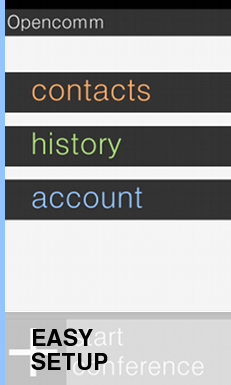
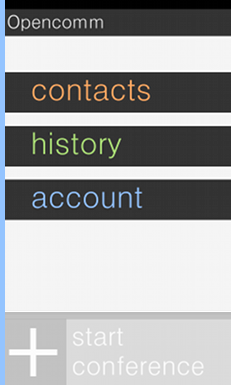
Changes to footer & images
Added/edited images

Changed region(s): [[0.1212, 0.8416, 0.4848, 0.9662]]

diff --git a/js/jquery.kwicks-1.5.1.pack.js b/js/jquery.kwicks-1.5.1.pack.js
@@ -7,5 +7,203 @@
 		http://www.opensource.org/licenses/mit-license.php
 
 	Any and all use of this script must be accompanied by this copyright/license notice in its present form.
-*/
-(function($){$.fn.kwicks=function(n){var p={isVertical:false,sticky:false,defaultKwick:0,event:'mouseover',spacing:0,duration:500};var o=$.extend(p,n);var q=(o.isVertical?'height':'width');var r=(o.isVertical?'top':'left');return this.each(function(){container=$(this);var k=container.children('li');var l=k.eq(0).css(q).replace(/px/,'');if(!o.max){o.max=(l*k.size())-(o.min*(k.size()-1))}else{o.min=((l*k.size())-o.max)/(k.size()-1)}if(o.isVertical){container.css({width:k.eq(0).css('width'),height:(l*k.size())+(o.spacing*(k.size()-1))+'px'})}else{container.css({width:(l*k.size())+(o.spacing*(k.size()-1))+'px',height:k.eq(0).css('height')})}var m=[];for(i=0;i<k.size();i++){m[i]=[];for(j=1;j<k.size()-1;j++){if(i==j){m[i][j]=o.isVertical?j*o.min+(j*o.spacing):j*o.min+(j*o.spacing)}else{m[i][j]=(j<=i?(j*o.min):(j-1)*o.min+o.max)+(j*o.spacing)}}}k.each(function(i){var h=$(this);if(i===0){h.css(r,'0px')}else if(i==k.size()-1){h.css(o.isVertical?'bottom':'right','0px')}else{if(o.sticky){h.css(r,m[o.defaultKwick][i])}else{h.css(r,(i*l)+(i*o.spacing))}}if(o.sticky){if(o.defaultKwick==i){h.css(q,o.max+'px');h.addClass('active')}else{h.css(q,o.min+'px')}}h.css({margin:0,position:'absolute'});h.bind(o.event,function(){var c=[];var d=[];k.stop().removeClass('active');for(j=0;j<k.size();j++){c[j]=k.eq(j).css(q).replace(/px/,'');d[j]=k.eq(j).css(r).replace(/px/,'')}var e={};e[q]=o.max;var f=o.max-c[i];var g=c[i]/f;h.addClass('active').animate(e,{step:function(a){var b=f!=0?a/f-g:1;k.each(function(j){if(j!=i){k.eq(j).css(q,c[j]-((c[j]-o.min)*b)+'px')}if(j>0&&j<k.size()-1){k.eq(j).css(r,d[j]-((d[j]-m[i][j])*b)+'px')}})},duration:o.duration,easing:o.easing})})});if(!o.sticky){container.bind("mouseleave",function(){var c=[];var d=[];k.removeClass('active').stop();for(i=0;i<k.size();i++){c[i]=k.eq(i).css(q).replace(/px/,'');d[i]=k.eq(i).css(r).replace(/px/,'')}var e={};e[q]=l;var f=l-c[0];k.eq(0).animate(e,{step:function(a){var b=f!=0?(a-c[0])/f:1;for(i=1;i<k.size();i++){k.eq(i).css(q,c[i]-((c[i]-l)*b)+'px');if(i<k.size()-1){k.eq(i).css(r,d[i]-((d[i]-((i*l)+(i*o.spacing)))*b)+'px')}}},duration:o.duration,easing:o.easing})})}})}})(jQuery);
+ */
+(function($) {
+	$.fn.kwicks = function(n) {
+		var p = {
+			isVertical : false,
+			sticky : false,
+			defaultKwick : 0,
+			event : 'mouseover',
+			spacing : 0,
+			duration : 500
+		};
+		var o = $.extend(p, n);
+		var q = (o.isVertical ? 'height' : 'width');
+		var r = (o.isVertical ? 'top' : 'left');
+		return this
+				.each(function() {
+					container = $(this);
+					var k = container.children('li');
+					var l = k.eq(0).css(q).replace(/px/, '');
+					if (!o.max) {
+						o.max = (l * k.size()) - (o.min * (k.size() - 1))
+					} else {
+						o.min = ((l * k.size()) - o.max) / (k.size() - 1)
+					}
+					if (o.isVertical) {
+						container.css({
+							width : k.eq(0).css('width'),
+							height : (l * k.size())
+									+ (o.spacing * (k.size() - 1)) + 'px'
+						})
+					} else {
+						container.css({
+							width : (l * k.size())
+									+ (o.spacing * (k.size() - 1)) + 'px',
+							height : k.eq(0).css('height')
+						})
+					}
+					var m = [];
+					for (i = 0; i < k.size(); i++) {
+						m[i] = [];
+						for (j = 1; j < k.size() - 1; j++) {
+							if (i == j) {
+								m[i][j] = o.isVertical ? j * o.min
+										+ (j * o.spacing) : j * o.min
+										+ (j * o.spacing)
+							} else {
+								m[i][j] = (j <= i ? (j * o.min) : (j - 1)
+										* o.min + o.max)
+										+ (j * o.spacing)
+							}
+						}
+					}
+					k
+							.each(function(i) {
+								var h = $(this);
+								if (i === 0) {
+									h.css(r, '0px')
+								} else if (i == k.size() - 1) {
+									h.css(o.isVertical ? 'bottom' : 'right',
+											'0px')
+								} else {
+									if (o.sticky) {
+										h.css(r, m[o.defaultKwick][i])
+									} else {
+										h.css(r, (i * l) + (i * o.spacing))
+									}
+								}
+								if (o.sticky) {
+									if (o.defaultKwick == i) {
+										h.css(q, o.max + 'px');
+										h.addClass('active')
+									} else {
+										h.css(q, o.min + 'px')
+									}
+								}
+								h.css({
+									margin : 0,
+									position : 'absolute'
+								});
+								h
+										.bind(
+												o.event,
+												function() {
+													var c = [];
+													var d = [];
+													k.stop().removeClass(
+															'active');
+													for (j = 0; j < k.size(); j++) {
+														c[j] = k.eq(j).css(q)
+																.replace(/px/,
+																		'');
+														d[j] = k.eq(j).css(r)
+																.replace(/px/,
+																		'')
+													}
+													var e = {};
+													e[q] = o.max;
+													var f = o.max - c[i];
+													var g = c[i] / f;
+													h
+															.addClass('active')
+															.animate(
+																	e,
+																	{
+																		step : function(
+																				a) {
+																			var b = f != 0 ? a
+																					/ f
+																					- g
+																					: 1;
+																			k
+																					.each(function(
+																							j) {
+																						if (j != i) {
+																							k
+																									.eq(
+																											j)
+																									.css(
+																											q,
+																											c[j]
+																													- ((c[j] - o.min) * b)
+																													+ 'px')
+																						}
+																						if (j > 0
+																								&& j < k
+																										.size() - 1) {
+																							k
+																									.eq(
+																											j)
+																									.css(
+																											r,
+																											d[j]
+																													- ((d[j] - m[i][j]) * b)
+																													+ 'px')
+																						}
+																					})
+																		},
+																		duration : o.duration,
+																		easing : o.easing
+																	})
+												})
+							});
+					if (!o.sticky) {
+						container
+								.bind(
+										"mouseleave",
+										function() {
+											var c = [];
+											var d = [];
+											k.removeClass('active').stop();
+											for (i = 0; i < k.size(); i++) {
+												c[i] = k.eq(i).css(q).replace(
+														/px/, '');
+												d[i] = k.eq(i).css(r).replace(
+														/px/, '')
+											}
+											var e = {};
+											e[q] = l;
+											var f = l - c[0];
+											k
+													.eq(0)
+													.animate(
+															e,
+															{
+																step : function(
+																		a) {
+																	var b = f != 0 ? (a - c[0])
+																			/ f
+																			: 1;
+																	for (i = 1; i < k
+																			.size(); i++) {
+																		k
+																				.eq(
+																						i)
+																				.css(
+																						q,
+																						c[i]
+																								- ((c[i] - l) * b)
+																								+ 'px');
+																		if (i < k
+																				.size() - 1) {
+																			k
+																					.eq(
+																							i)
+																					.css(
+																							r,
+																							d[i]
+																									- ((d[i] - ((i * l) + (i * o.spacing))) * b)
+																									+ 'px')
+																		}
+																	}
+																},
+																duration : o.duration,
+																easing : o.easing
+															})
+										})
+					}
+				})
+	}
+})(jQuery);

diff --git a/awards.html b/awards.html
@@ -80,7 +80,7 @@ Released   : 20100701
                             "BOOM is an annual showcase of student research and creativity in digital technology 
                             and applications. It's an opportunity for Cornell undergraduate and Master's-level students to show their  
                             best work in cutting-edge technologies to the public and the Cornell community." - Cornell BOOM 2011 Last year. 
-							OpenComm received the Cisco Pioneer Award and GE Imagination in IT Award.
+                            OpenComm received the Cisco Pioneer Award and GE Imagination in IT Award.
                         </p>
                         <a href="http://www.news.cornell.edu/stories/March11/BOOMCover.html">Check out the Cornell Chronicle article here.</a>
                     </div>
@@ -94,7 +94,9 @@ Released   : 20100701
     </div>
     <div id="footer">
         <p>
-            Copyright (c) 2008 .com. All rights reserved. Design by <a href="http://www.freecsstemplates.org/">CSS Templates</a>.
+            Copyright (c) 2011 http://opencomm.github.com/home.html. All rights reserved. Design by <a href="http://www.freecsstemplates.org/">CSS Templates</a>.
+            <br/>
+            <a href="CUOpenComm@gmail.com">CUOpenComm@gmail.com</a>
         </p>
     </div>
     <!-- end #footer -->

diff --git a/features.html b/features.html
@@ -72,7 +72,7 @@ Released   : 20100701
                     <div class="viewer">
                         <h2>Features</h2>
                         <p>
-                            OpenComm is an Android that strives to make communication through phones
+                            OpenComm is an Android application that strives to make communication through phones
                             as intuitive as possible via an advanced user experience and sound spatialization.
                         </p>
                         <p>
@@ -91,11 +91,12 @@ Released   : 20100701
         </div>
     </div><!-- end #page -->
     </div>
-    <div id="footer">
-        <p>
-            Copyright (c) 2008 Sitename.com. All rights reserved. Design by <a href="http://www.freecsstemplates.org/">CSS Templates</a>.
-        </p>
-    </div>
+        <div id="footer">
+            <p>
+                Copyright (c) 2011 http://opencomm.github.com/home.html. All rights reserved. Design by <a href="http://www.freecsstemplates.org/">CSS Templates</a>.
+            	<br/><a href="CUOpenComm@gmail.com">CUOpenComm@gmail.com</a>
+			</p>
+        </div>
     <!-- end #footer -->
 </body>
 </html>

diff --git a/aboutus.html b/aboutus.html
@@ -93,16 +93,17 @@ Released   : 20100701
                 </div>
             </div>
             <div class="col2">
-                <img src="" alt=""/>
+                <img src="images/risa.jpg" alt="Risa Naka"/>
             </div>
         </div>
     </div><!-- end #page -->
     </div>
-    <div id="footer">
-        <p>
-            Copyright (c) 2008 Sitename.com. All rights reserved. Design by <a href="http://www.freecsstemplates.org/">CSS Templates</a>.
-        </p>
-    </div>
+        <div id="footer">
+            <p>
+                Copyright (c) 2011 http://opencomm.github.com/home.html. All rights reserved. Design by <a href="http://www.freecsstemplates.org/">CSS Templates</a>.
+            	<br/><a href="CUOpenComm@gmail.com">CUOpenComm@gmail.com</a>
+			</p>
+        </div>
     <!-- end #footer -->
 </body>
 </html>

diff --git a/css/main.css b/css/main.css
@@ -475,7 +475,6 @@ hr {
     margin: 0;
     padding: 30px 0px 0px 30px;
     text-align: center;
-    text-transform: capitalize;
     line-height: normal;
     font-size: 14px;
 }
@@ -557,22 +556,18 @@ body {
 }
 
 #kwick_1 {
-    background-color: #53b388;
     background-image: url('../images/Icons.png');
 }
 
 #kwick_2 {
-    background-color: #5a69a9;
     background-image: url('../images/StartConference.png');
 }
-
+ 
 #kwick_3 {
-    background-color: #c26468;
     background-image: url('../images/Poptip.png');
 }
 
 #kwick_4 {
-    background-color: #bf7cc7;
     background-image: url('../images/volume.png');
     margin: none;
 }
@@ -586,6 +581,7 @@ a.demolink {
     left: 30px;
 	text-decoration:none;
 }
+
 
 a.demolink:hover {
 	color: #3066A6;

diff --git a/join.html b/join.html
@@ -110,11 +110,12 @@ Released   : 20100701
         </div>
     </div><!-- end #page -->
     </div>
-    <div id="footer">
-        <p>
-            Copyright (c) 2008 Sitename.com. All rights reserved. Design by <a href="http://www.freecsstemplates.org/">CSS Templates</a>.
-        </p>
-    </div>
+        <div id="footer">
+            <p>
+                Copyright (c) 2011 http://opencomm.github.com/home.html. All rights reserved. Design by <a href="http://www.freecsstemplates.org/">CSS Templates</a>.
+            	<br/><a href="CUOpenComm@gmail.com">CUOpenComm@gmail.com</a>
+			</p>
+        </div>
     <!-- end #footer -->
 </body>
 </html>

diff --git a/home.html b/home.html
@@ -150,8 +150,9 @@ Released   : 20100701
         <!-- end #page -->
         <div id="footer">
             <p>
-                Copyright (c) 2008 Sitename.com. All rights reserved. Design by <a href="http://www.freecsstemplates.org/">CSS Templates</a>.
-            </p>
+                Copyright (c) 2011 http://opencomm.github.com/home.html. All rights reserved. Design by <a href="http://www.freecsstemplates.org/">CSS Templates</a>.
+            	<br/><a href="CUOpenComm@gmail.com">CUOpenComm@gmail.com</a>
+			</p>
         </div>
         <!-- end #footer -->
     </body>

diff --git a/js/jquery.kwicks-1.5.1.js b/js/jquery.kwicks-1.5.1.js
@@ -25,7 +25,7 @@
 		
 		return this.each(function() {
 			container = $(this);
-			var kwicks = container.children('li');
+			var kwicks = container.children('a');
 			var normWoH = kwicks.eq(0).css(WoH).replace(/px/,''); // normWoH = Normal Width or Height
 			if(!o.max) {
 				o.max = (normWoH * kwicks.size()) - (o.min * (kwicks.size() - 1));

diff --git a/css/tallwrapper.css b/css/tallwrapper.css
@@ -32,6 +32,7 @@
 	font-size: 34px;
 	font-style: italic;
 	color: #333333;
+	text-align:center;
 }
 
 #three-columns .col2 blockquote {
